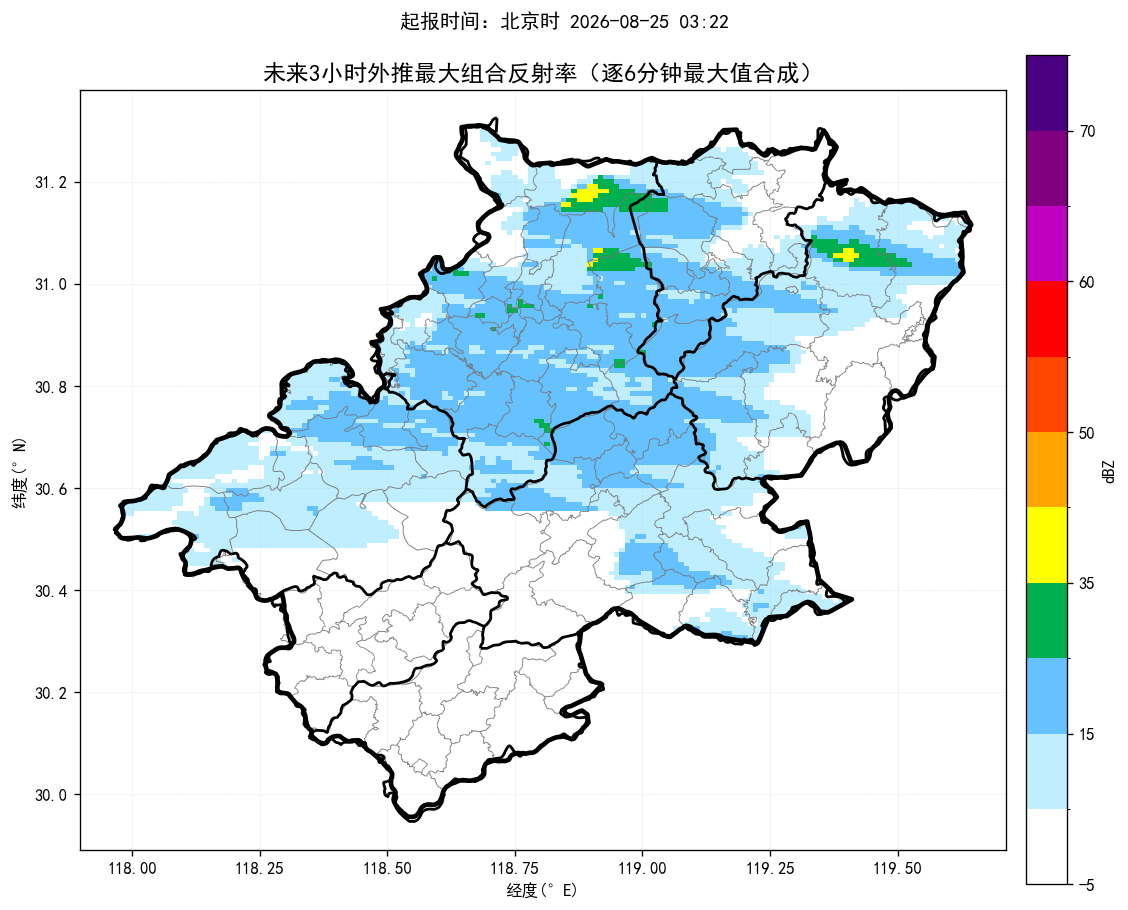
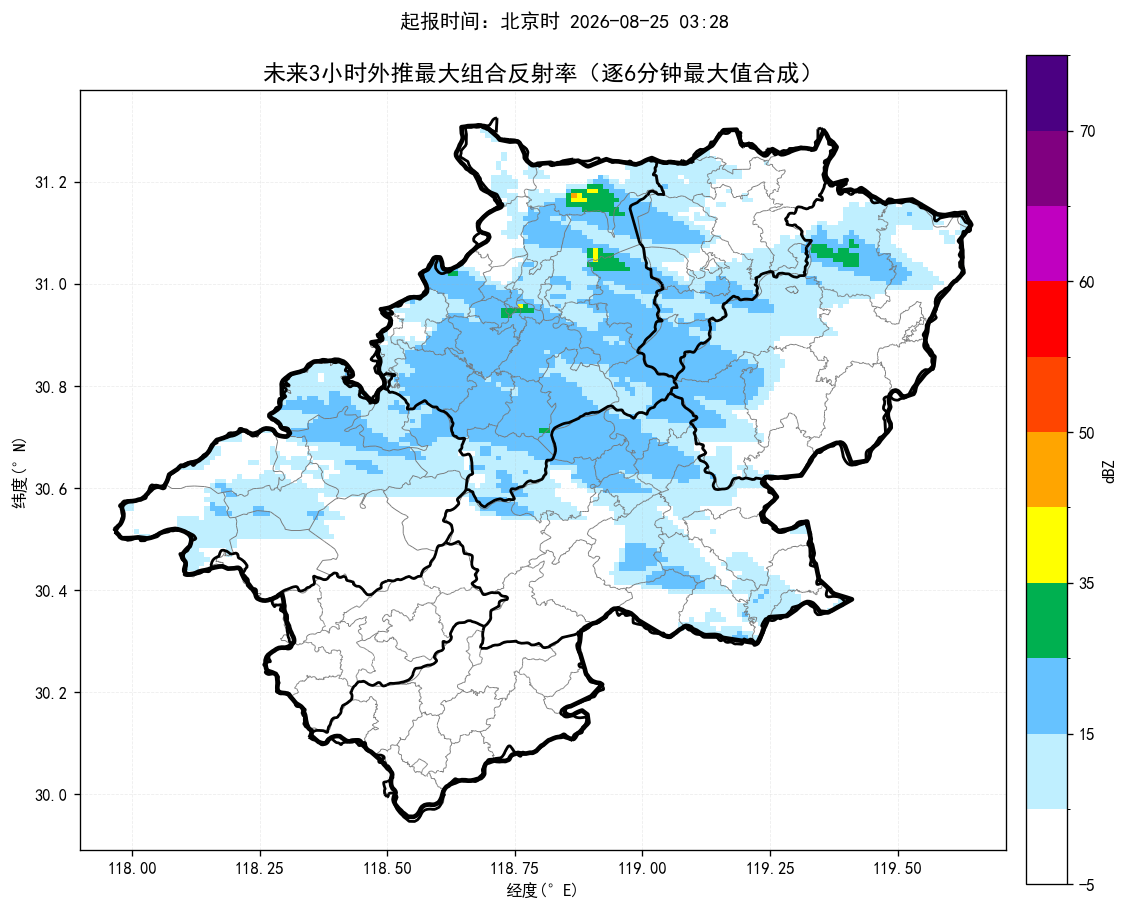
update nowcast products

Changed region(s): [[0.0931, 0.1538, 0.8688, 0.7077], [0.7137, 0.6462, 0.7447, 0.6769]]

diff --git a/index.html b/index.html
@@ -14,14 +14,14 @@ img.product{display:block;width:100%;height:auto;margin:10px auto 26px;border:1p
 .footer{font-size:13px;color:#777;text-align:center;margin-top:30px}
 @media(max-width:700px){.sheet{margin:0;padding:18px 15px}.alert-title{font-size:22px}.county-line{font-size:17px}.prob{font-size:18px}}
 </style></head><body><main class="sheet">
-<div class="time">起报时间：北京时 2026-08-25 03:22</div>
+<div class="time">起报时间：北京时 2026-08-25 03:28</div>
 <div class="alert-title">未来一小时降水量超过 20 毫米的乡镇：</div><div class="county-line">无</div>
 <div class="alert-title">未来三小时降水量超过 50 毫米的乡镇：</div><div class="county-line">无</div>
 <div class="alert-title">未来三小时雷暴大风（组合反射率 > 55 dBZ）的乡镇：</div><div class="county-line">无</div>
-<div class="prob">最大降水量概率预估：宣城市范围内未来三小时降水偏小，最大预报约3.6毫米，暂不进行50/80/100毫米概率预估。</div>
-<div class="section-title">未来降水预报图：</div><img class="product auto-refresh-product" data-src="短临降水预报.png" src="短临降水预报.png?v=20260825032841" alt="未来降水预报图">
-<div class="section-title">未来三小时组合反射率图：</div><img class="product auto-refresh-product" data-src="未来3小时组合反射率.png" src="未来3小时组合反射率.png?v=20260825032841" alt="未来三小时组合反射率图">
-<div class="section-title">未来三小时雷暴大风图：</div><img class="product auto-refresh-product" data-src="未来3小时雷暴大风.png" src="未来3小时雷暴大风.png?v=20260825032841" alt="未来三小时雷暴大风图">
+<div class="prob">最大降水量概率预估：宣城市范围内未来三小时降水偏小，最大预报约4.1毫米，暂不进行50/80/100毫米概率预估。</div>
+<div class="section-title">未来降水预报图：</div><img class="product auto-refresh-product" data-src="短临降水预报.png" src="短临降水预报.png?v=20260825033421" alt="未来降水预报图">
+<div class="section-title">未来三小时组合反射率图：</div><img class="product auto-refresh-product" data-src="未来3小时组合反射率.png" src="未来3小时组合反射率.png?v=20260825033421" alt="未来三小时组合反射率图">
+<div class="section-title">未来三小时雷暴大风图：</div><img class="product auto-refresh-product" data-src="未来3小时雷暴大风.png" src="未来3小时雷暴大风.png?v=20260825033421" alt="未来三小时雷暴大风图">
 <div class="footer">三张产品图每 60 秒自动刷新一次；每次请求自动附加新的URL参数以绕过缓存。</div>
 <script>
 (function() {
